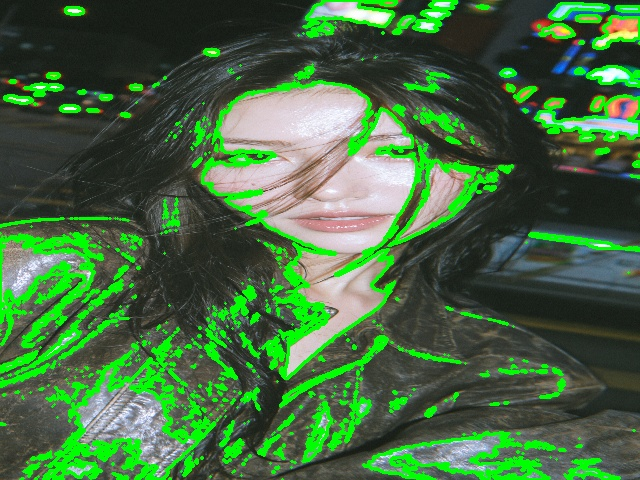
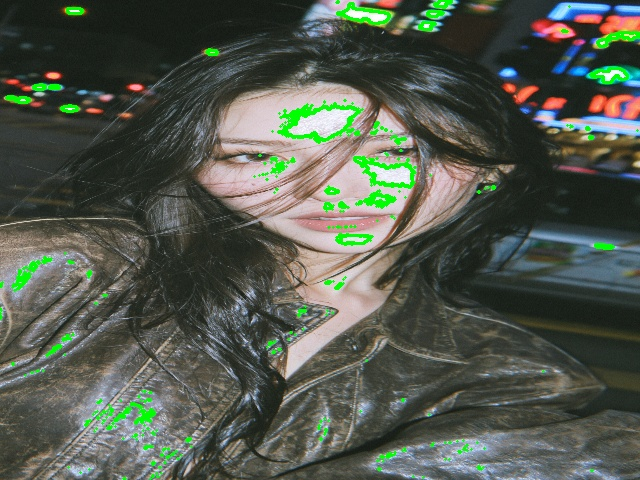
Day53 add contour filtering and center detection

diff --git a/myrobot/main.py b/myrobot/main.py
@@ -21,6 +21,9 @@ from vision.image_processor import ImageProcessor
 from vision.camera import Camera
 from vision.image_processor import ImageProcessor
 from vision.detector import Detector
+from vision.camera import Camera
+from vision.detector import Detector
+from vision.image_processor import ImageProcessor
 
 
 
@@ -46,7 +49,7 @@ def test_vision():
 
     binary_image = ImageProcessor.threshold(
             gray_image,
-            127
+            220
         )
     contours = Detector.find_contours(
 
@@ -131,7 +134,67 @@ def test_vision():
         "images/output/contours.jpg"
 
     )
+     # 先复制原图，后面在副本上持续画图
+    result_image = resized_image.copy()
 
+    # 6. 绘制所有轮廓
+    result_image = ImageProcessor.draw_contours(
+        result_image,
+        contours
+    )
+
+    # 7. 依次计算每个轮廓的中心
+    for index, contour in enumerate(
+        contours,
+        start=1
+    ):
+
+        center = Detector.find_center(
+            contour
+        )
+
+        if center is None:
+            print(
+                f"轮廓{index}无法计算中心"
+            )
+
+            continue
+
+        print(
+            f"轮廓{index}中心坐标：",
+            center
+        )
+
+        result_image = ImageProcessor.draw_center(
+            result_image,
+            center
+        )
+
+    # 8. 保存最终结果
+    ImageProcessor.save(
+        result_image,
+        "images/output/centers.jpg"
+    )
+    print("轮廓总数：", len(contours))
+# reason for can not count
+    for index, contour in enumerate(contours[:20], start=1):
+        area = cv2.contourArea(contour)
+        moments = cv2.moments(contour)
+
+        print(
+            f"轮廓{index}：",
+            "点数 =", len(contour),
+            "面积 =", area,
+            "m00 =", moments["m00"]
+        )
+    print(
+    "传入轮廓检测的图片形状：",
+    binary_image.shape
+)
+    ImageProcessor.save(
+    binary_image,
+    "images/output/debug_binary.jpg"
+)
 
 test_vision()
 

diff --git a/myrobot/vision/detector.py b/myrobot/vision/detector.py
@@ -16,5 +16,24 @@ class Detector:
             cv2.CHAIN_APPROX_SIMPLE
 
         )
-
         return contours
+    @staticmethod
+    def find_center(contour):
+        """
+        根据轮廓计算目标中心坐标
+        """
+
+        moments = cv2.moments(contour)
+
+        if moments["m00"] == 0:
+            return None
+
+        center_x = int(
+            moments["m10"] / moments["m00"]
+        )
+
+        center_y = int(
+            moments["m01"] / moments["m00"]
+        )
+
+        return center_x, center_y

diff --git a/myrobot/vision/image_processor.py b/myrobot/vision/image_processor.py
@@ -61,6 +61,22 @@ class ImageProcessor:
         ]
 
         return cropped_image
+    @staticmethod
+    def draw_center(image, center):
+        """
+        在图片上绘制目标中心点
+        """
+
+        result = image.copy()
+
+        cv2.circle(
+            result,
+            center,
+            5,
+            (0, 0, 255),
+            -1
+        )
+        return result
 
     @staticmethod
     def save(image, path):
@@ -99,3 +115,4 @@ class ImageProcessor:
         )
 
         return result
+    
